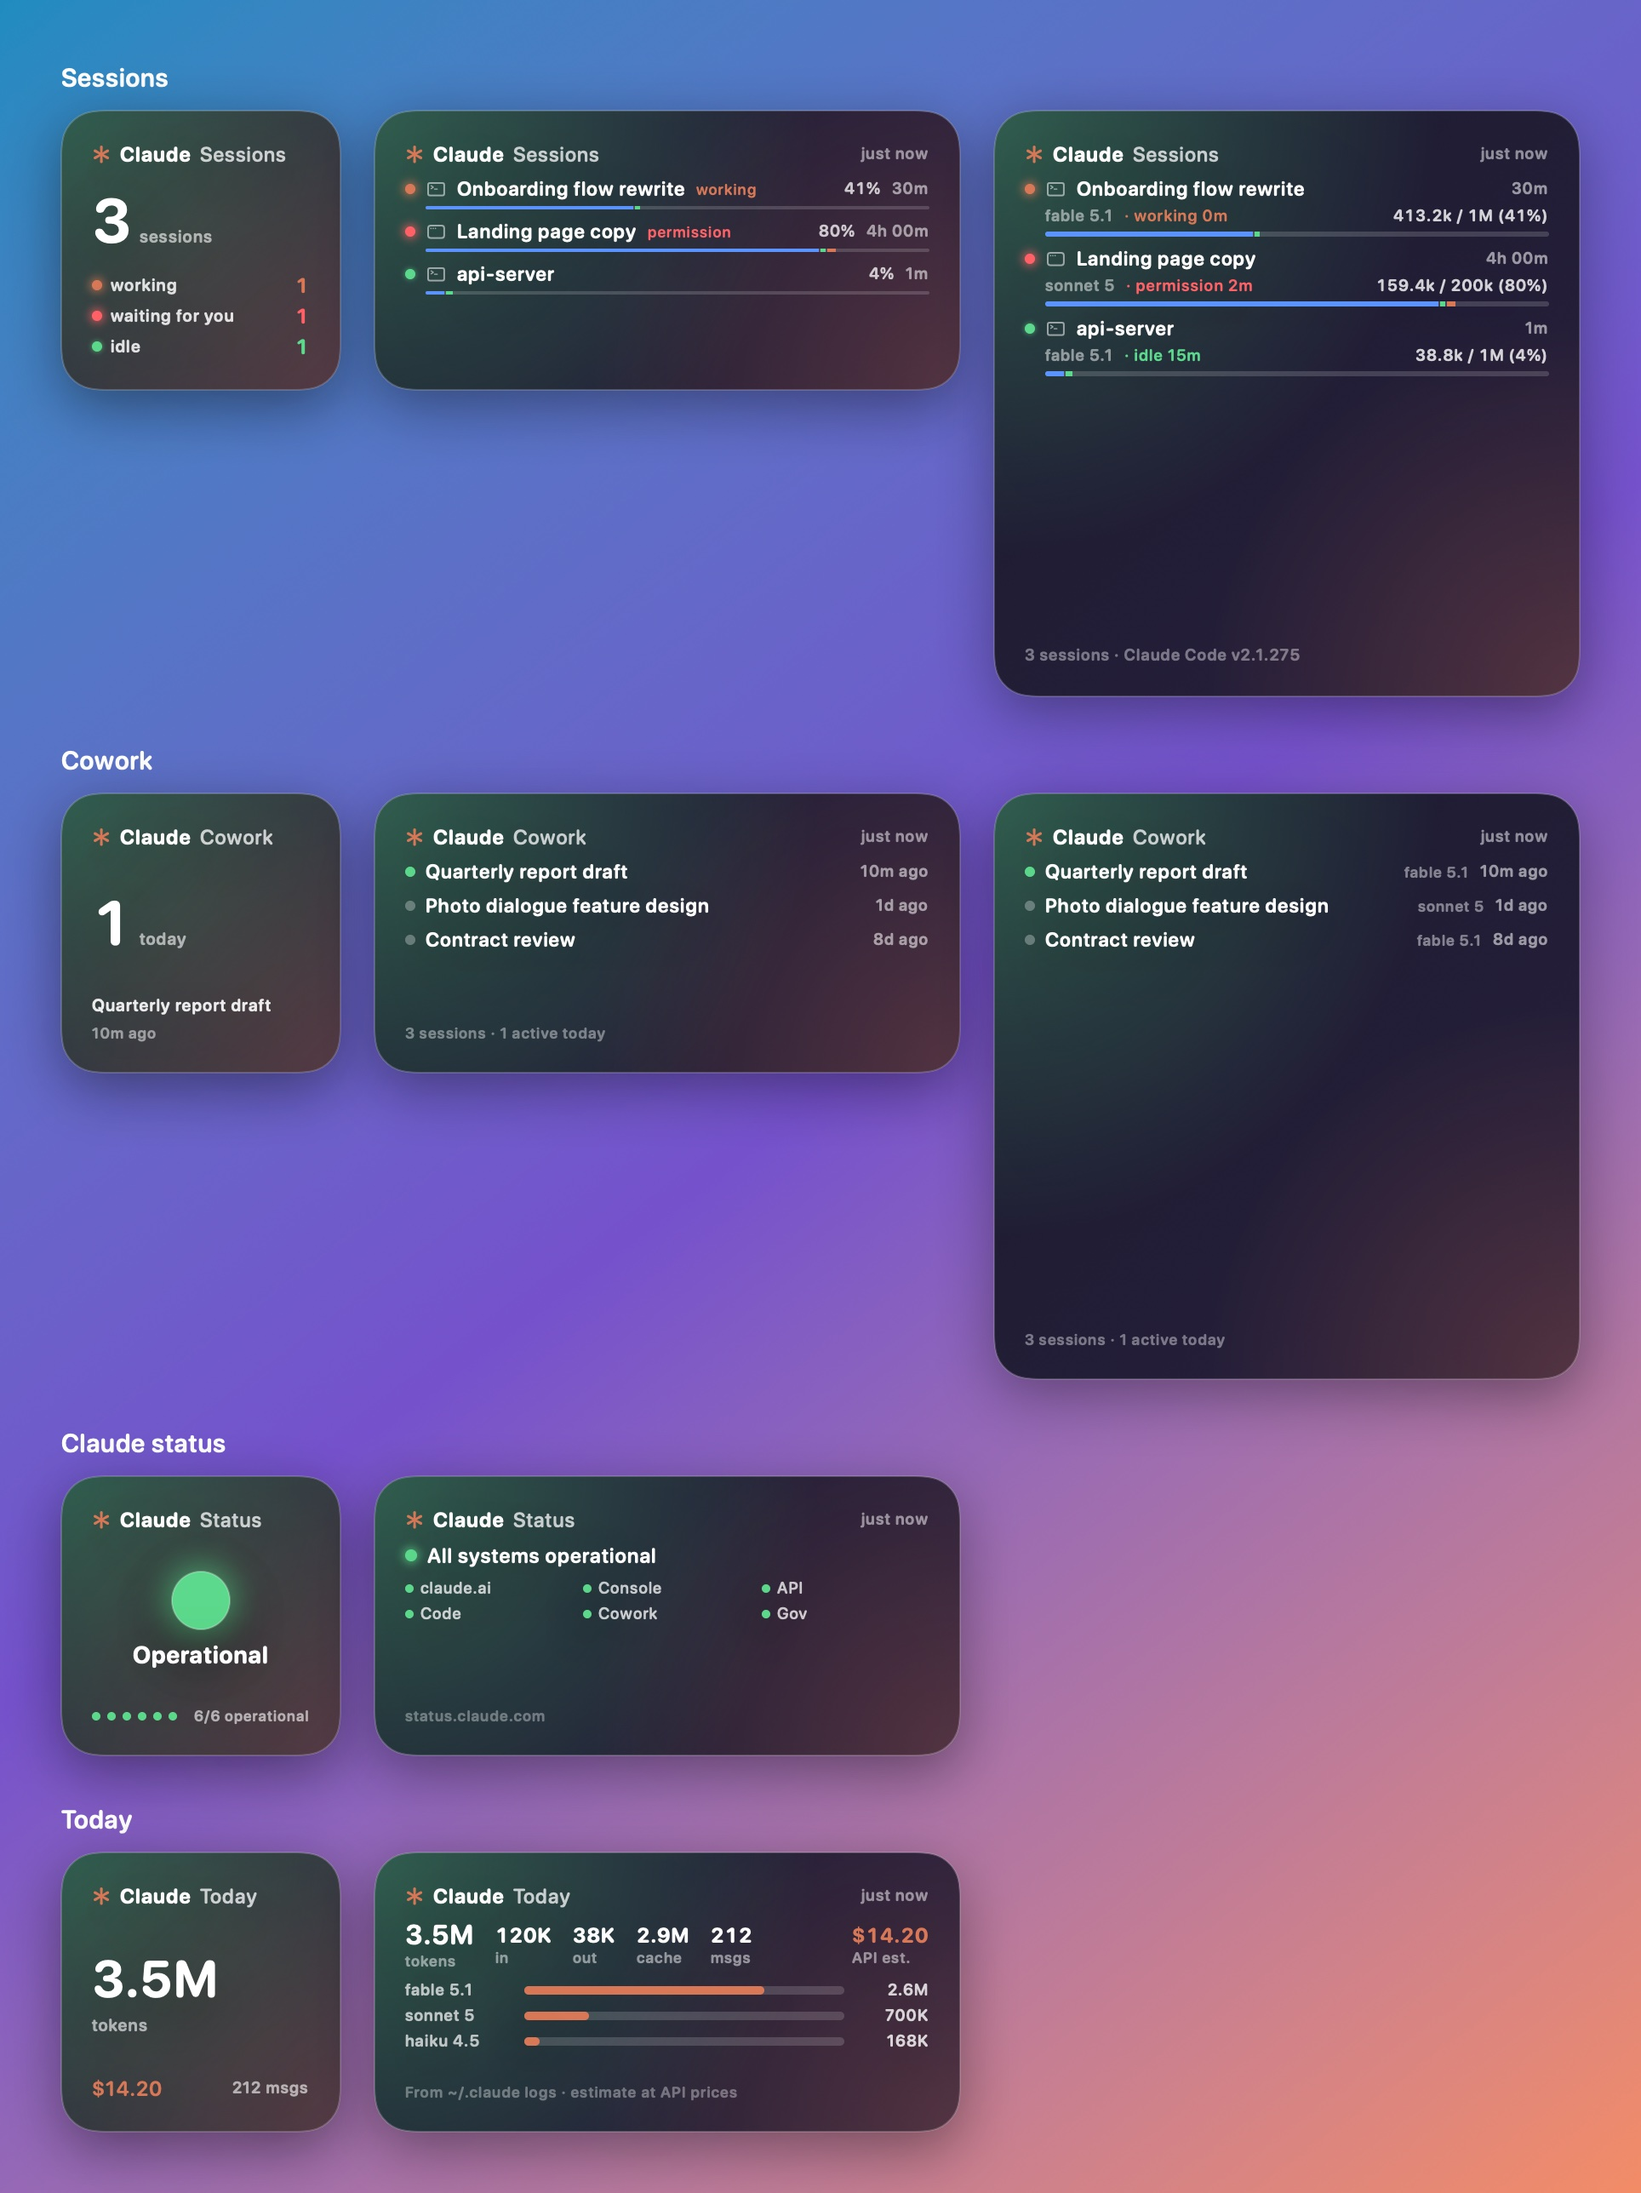
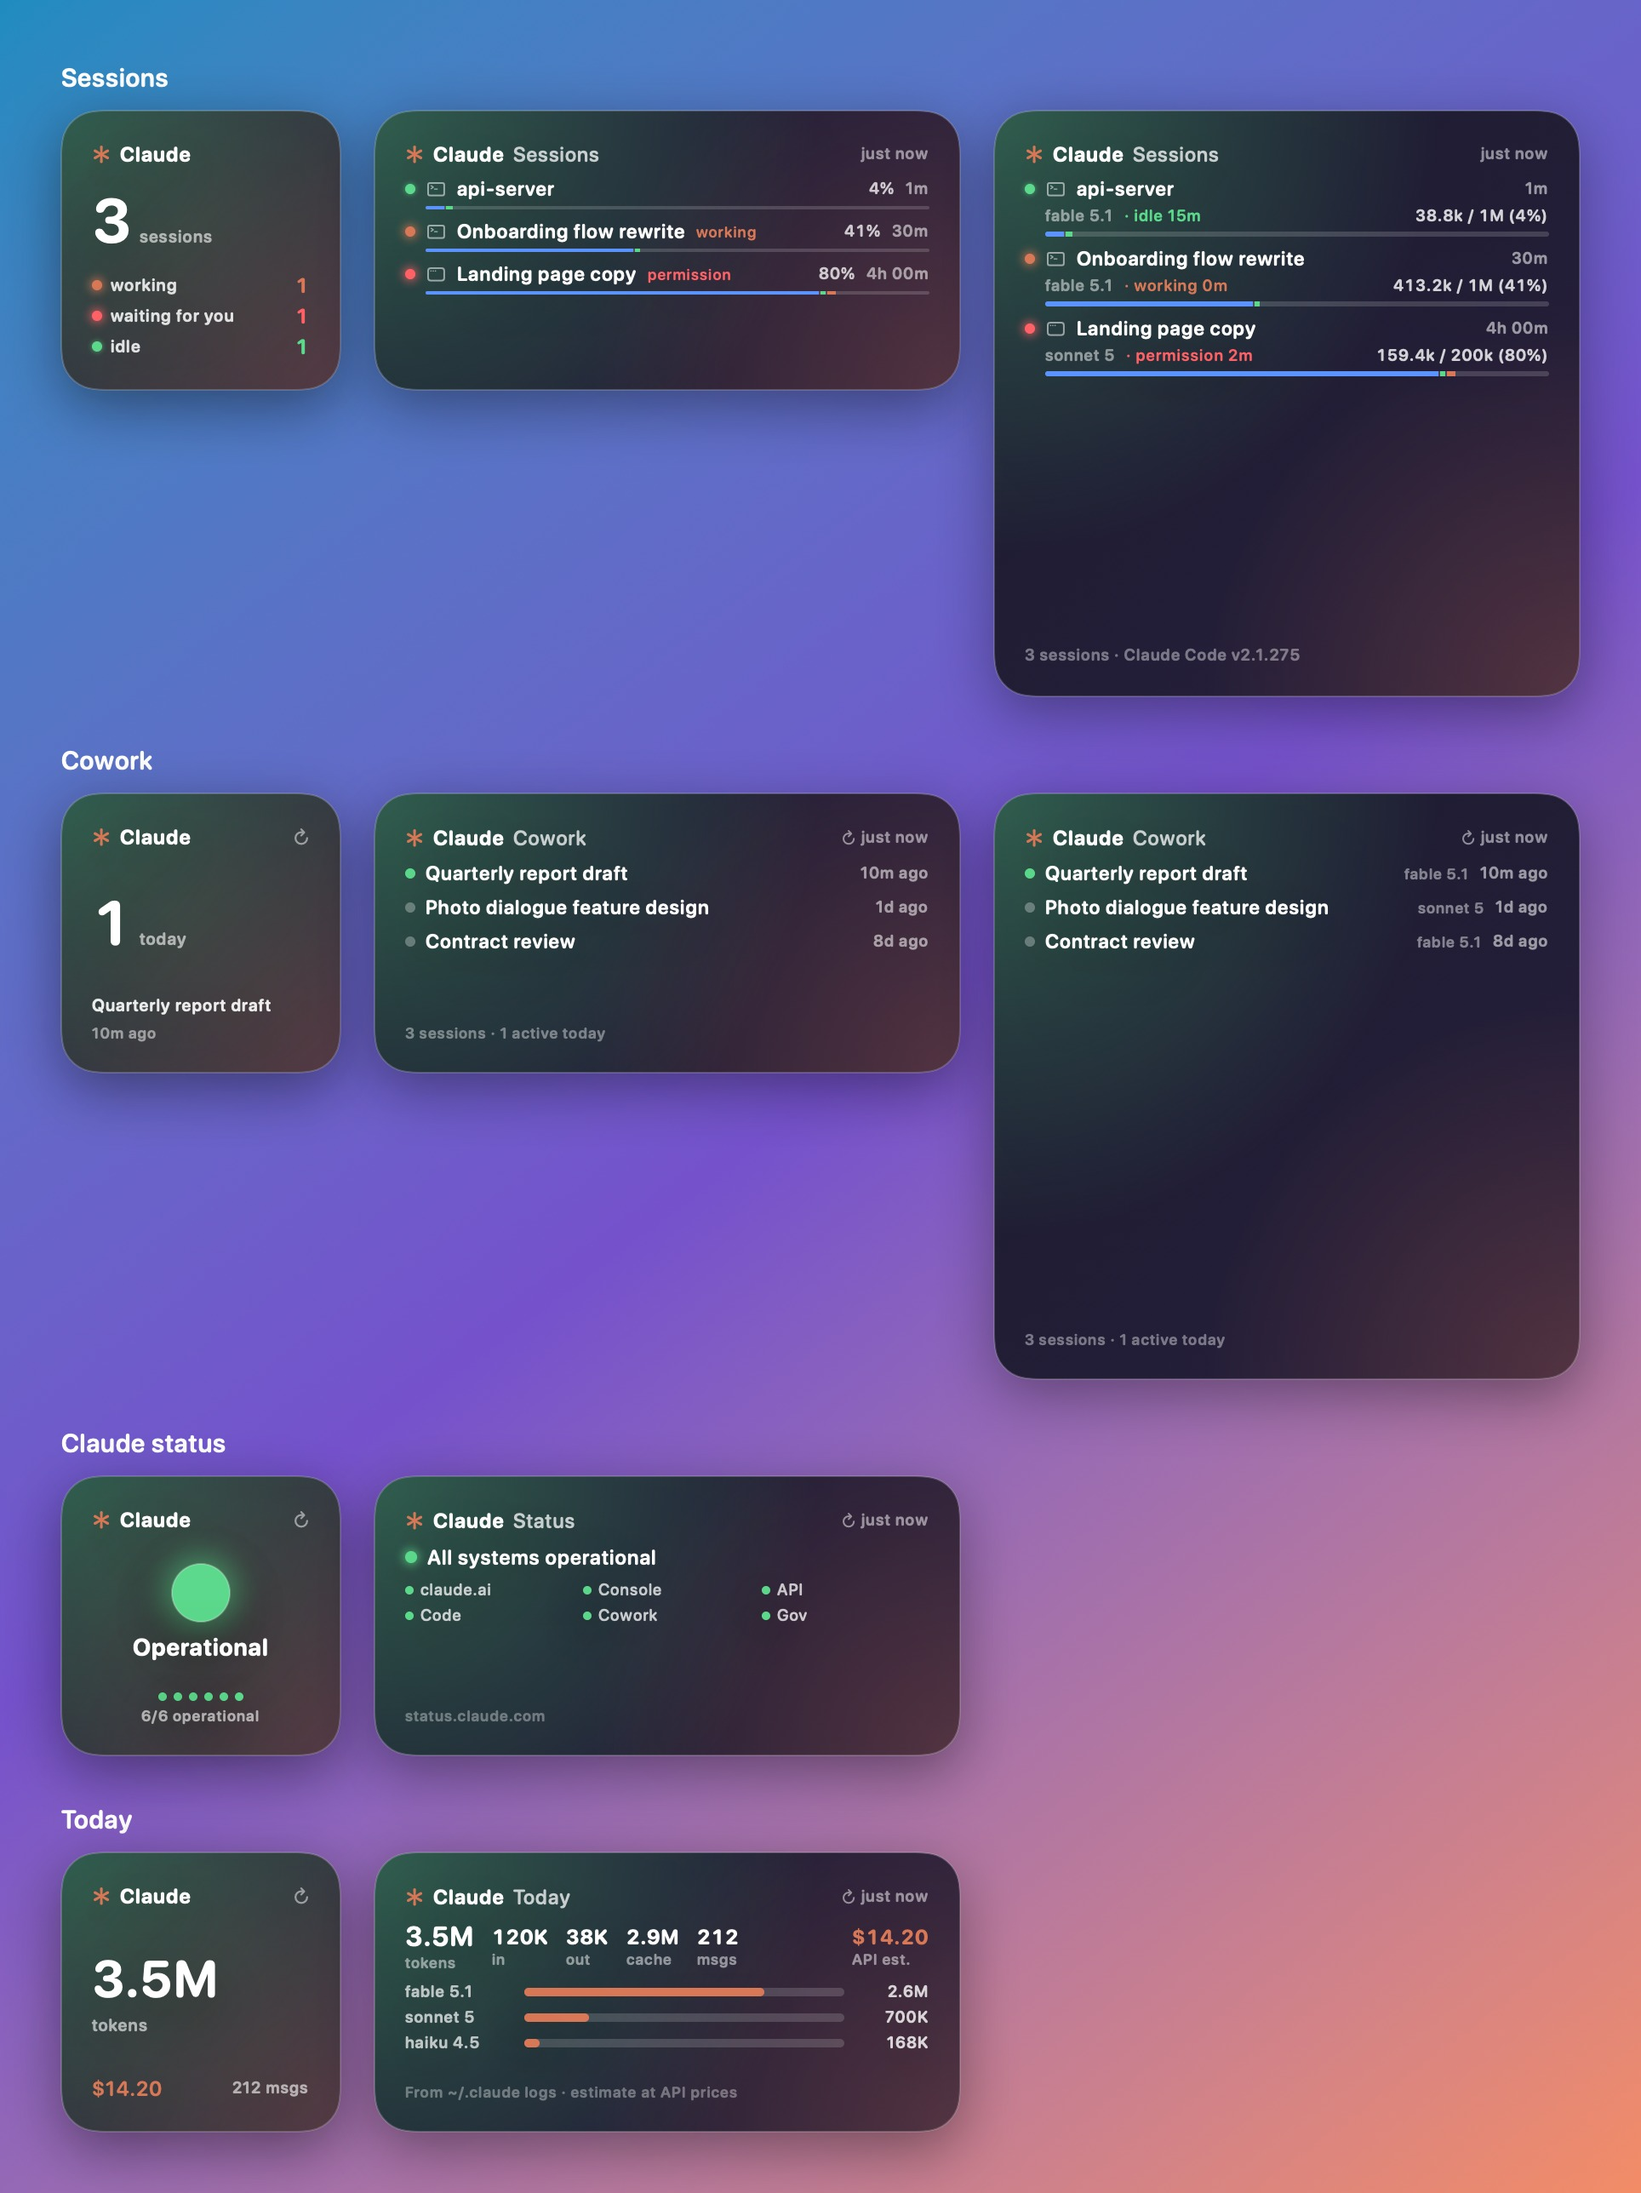
README: fresh widget renders, incident image shows the Usage widget too
The incident section described the Usage widget's own incident line but only
pictured the status widget. The new --render-incident flag renders Claude status
(S / M) with its halo and the medium Usage widget in all three designs;
docs/incident-widgets.jpg replaces status-incident.png. The two galleries are
re-rendered to pick up the recent layout changes.

diff --git a/App/Gallery.swift b/App/Gallery.swift
@@ -148,6 +148,60 @@ extension Gallery {
     }
 }
 
+// MARK: - Incident gallery (README "During an incident")
+
+extension Gallery {
+    /// Claude status (S / M) with its halo, then the medium Usage widget in each design, so the incident line is visible in all three.
+    @MainActor
+    static func renderIncident(to url: URL, snapshot: UsageSnapshot) {
+        let statusOpts = AppSettings.snapshot()
+        var usageOpts = DisplayOptions.all
+        let alert = snapshot.serviceStatus.map { !$0.isHealthy } ?? false
+        let level = snapshot.worstWindow()?.level() ?? .onTrack
+        let medium = sizes[1].1
+        func card(_ content: some View, dim: CGSize, style: WidgetStyle, level: UsageLevel, halo: Bool) -> some View {
+            content
+                .padding(18)
+                .frame(width: dim.width, height: dim.height)
+                .background(DashboardBackground(style: style, level: level))
+                .overlay(RoundedRectangle(cornerRadius: 22, style: .continuous).stroke(halo ? Palette.status(snapshot.serviceStatus) : .clear, lineWidth: 3).padding(1))
+                .clipShape(RoundedRectangle(cornerRadius: 22, style: .continuous))
+                .overlay(RoundedRectangle(cornerRadius: 22, style: .continuous).stroke(.white.opacity(0.18), lineWidth: 1))
+                .shadow(color: .black.opacity(0.35), radius: 18, y: 10)
+        }
+        let view = VStack(alignment: .leading, spacing: 28) {
+            VStack(alignment: .leading, spacing: 10) {
+                Text("Claude status").font(.system(size: 15, weight: .semibold, design: .rounded)).foregroundStyle(.white)
+                HStack(alignment: .top, spacing: 20) {
+                    ForEach(Array(sizes.prefix(2).enumerated()), id: \.offset) { _, item in
+                        card(StatusWidgetView(snapshot: snapshot, options: statusOpts, size: item.0), dim: item.1,
+                             style: statusOpts.style, level: alert ? .wellAboveTarget : .onTrack, halo: alert)
+                    }
+                }
+            }
+            VStack(alignment: .leading, spacing: 10) {
+                Text("Usage — Glass Orbit · Pace Bars · Console").font(.system(size: 15, weight: .semibold, design: .rounded)).foregroundStyle(.white)
+                HStack(alignment: .top, spacing: 20) {
+                    ForEach(WidgetStyle.allCases) { style in
+                        let _ = { usageOpts.style = style }()
+                        card(UsageDashboardView(snapshot: snapshot, options: usageOpts, size: .medium, inWidget: true), dim: medium,
+                             style: style, level: level, halo: false)
+                    }
+                }
+            }
+        }
+        .padding(36)
+        .background(LinearGradient(colors: [Color(red: 0.12, green: 0.55, blue: 0.75), Color(red: 0.46, green: 0.32, blue: 0.80), Color(red: 0.95, green: 0.55, blue: 0.40)], startPoint: .topLeading, endPoint: .bottomTrailing))
+        .environment(\.colorScheme, .dark)
+        let renderer = ImageRenderer(content: view)
+        renderer.scale = 2
+        guard let img = renderer.nsImage, let tiff = img.tiffRepresentation,
+              let rep = NSBitmapImageRep(data: tiff), let png = rep.representation(using: .png, properties: [:]) else { return }
+        try? png.write(to: url)
+        print("wrote \(url.path)")
+    }
+}
+
 // MARK: - App icon
 
 /// The app icon: two orbits (week outside, 5h inside) with a pace tick and a "planet" at the head of the outer orbit.

diff --git a/App/ClaudeUsageApp.swift b/App/ClaudeUsageApp.swift
@@ -317,6 +317,10 @@ struct ClaudeUsageApp: App {
             Gallery.renderExtras(to: URL(fileURLWithPath: args[i + 1]), snapshot: Self.renderSnapshot(args))
             exit(0)
         }
+        if let i = args.firstIndex(of: "--render-incident"), i + 1 < args.count {
+            Gallery.renderIncident(to: URL(fileURLWithPath: args[i + 1]), snapshot: Self.renderSnapshot(args + ["--incident"]))
+            exit(0)
+        }
         if let i = args.firstIndex(of: "--render-icon"), i + 1 < args.count {
             Gallery.renderIcon(to: URL(fileURLWithPath: args[i + 1]))
             exit(0)

diff --git a/README.md b/README.md
@@ -50,7 +50,7 @@ When status.claude.com reports a problem, the status widget gets a warning halo,
 
 The usage widgets say it too, next to their status lamp. The wording is long ("Claude Code degraded performance"), so it takes a line of its own above the session and token counts instead of squeezing them; Console types it at the prompt on the bottom line, as if it had just been entered.
 
-<img src="docs/status-incident.png" width="600" alt="Status widget during an incident">
+![Claude status and Usage widgets during an incident, Usage in all three designs](docs/incident-widgets.jpg)
 
 ## Requirements
 
@@ -110,7 +110,7 @@ homebrew/ Cask template for your tap
 docs/     design proposal, renders, distribution notes
 ```
 
-Render flags for previews: `--render out.png [--live] [--incident]`, `--render-extras out.png [--live] [--incident]`, `--render-panel out.png`, `--render-settings out.png`, `--render-icon out.png`, `--render-icon-bundle App/AppIcon.icon`, plus `--style glassOrbit|paceBars|console`. Diagnostics: `--fetch [--refresh-token]`, `--raw`, `--sessions`, `--sizes`, `--reload`.
+Render flags for previews: `--render out.png [--live] [--incident]`, `--render-extras out.png [--live] [--incident]`, `--render-incident out.png [--live]`, `--render-panel out.png`, `--render-settings out.png`, `--render-icon out.png`, `--render-icon-bundle App/AppIcon.icon`, plus `--style glassOrbit|paceBars|console`. Diagnostics: `--fetch [--refresh-token]`, `--raw`, `--sessions`, `--sizes`, `--reload`.
 
 If the widget gallery does not pick up a new build, `killall chronod NotificationCenter` refreshes it.
 
